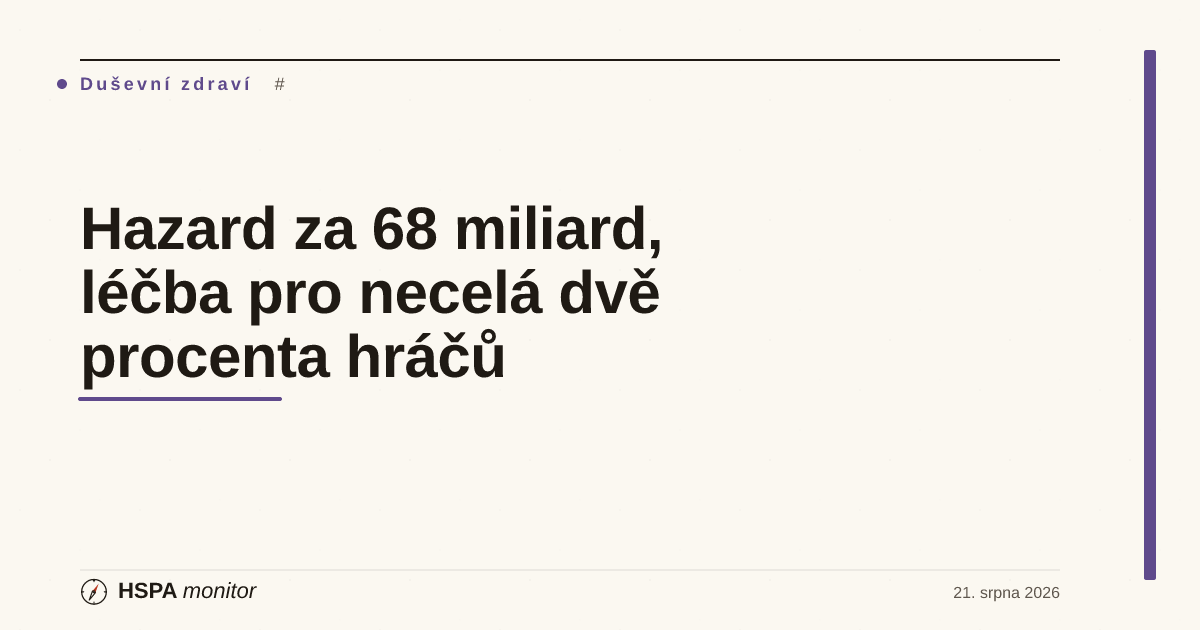
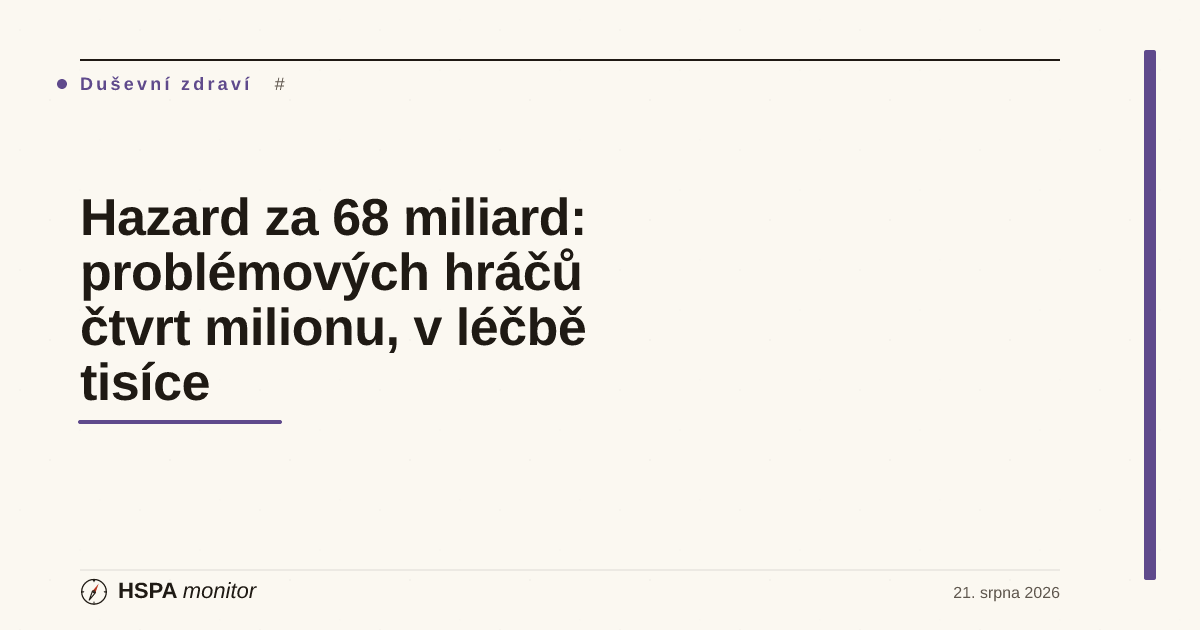
fix(clanky): hazard-vs-adiktologicke-sluzby — zapracování codex review PR #1016
P1: 'více než 4 tisíce' je dolní mez → pokrytí léčbou přeformulováno
jako 'nejméně 1,5–1,8 %'; titulek změněn (tvrzení 'necelá dvě procenta'
nemělo doloženou horní mez), cover přegenerován.
P2: 60 tis. sebezápisů (stav k 31. 12. 2025) nelze poměřovat s ročním
tokem 4 tis. v léčbě → poměr 15× a závěr o poptávce smazány; doplněno,
že sebezápis není totéž co zájem o léčbu.

Changed region(s): [[0.0617, 0.3016, 0.555, 0.6937]]

diff --git a/05_M1_Starter/clanek-hazard-vs-adiktologicke-sluzby.html b/05_M1_Starter/clanek-hazard-vs-adiktologicke-sluzby.html
@@ -15,16 +15,17 @@
       LEGISLATIVA: zápis do Rejstříku na vlastní žádost dle § 16a z. č. 186/2016 Sb., správcem systému je MF — ověřeno na portal.gov.cz (služba S12888, fetch 20. 8. 2026). VĚDOMĚ VYNECHÁNO: taxativní výčet kategorií zápisu ze zákona (hmotná nouze, insolvence…) — plné znění zákona dnes strojově nedostupné (zakonyprolidi 403, e-sbirka SPA bez textu); článek uvádí jen doložený kontrast 243/60 tis. VĚDOMĚ VYNECHÁNO: výnos daně z hazardních her (bez strojově ověřitelného zdroje k datu psaní).
       INDIKÁTORY (ověřeny v data/indicators.json 20. 8. 2026): hazardni_hrani_adolescenti 27,6 % (ESPAD 2024, benchmark 23, bad); vydaje_dusevni_zdravi_pct 4 % (2022, EU 7, bad); substitucni_lecba_pokryti 20,4 % (2023, EU 50, bad); alkohol_spotreba 10,6 l (2024, OECD 8,4, bad).
       INTERNÍ ODKAZY: clanek-protidrogova-dusevni-politika-mz-2026.html (publikován); drafty hazardni-hrani-mladistvych a substitucni-lecba-opioidy vědomě NELINKOVÁNY (nepublikované).
+      CODEX REVIEW PR #1016 (20. 8. 2026), 2 nálezy zapracovány: (P1) 'více než 4 tisíce' je jen dolní mez → pokrytí léčbou přeformulováno všude jako 'nejméně 1,5–1,8 %', titulek/og:title/h1 změněn z 'léčba pro necelá dvě procenta hráčů' (nedoložitelná horní mez) na 'problémových hráčů čtvrt milionu, v léčbě tisíce'; (P2) 60 tis. sebezápisů je stavová veličina (kumulativní k 31. 12. 2025), 4 tis. v léčbě roční tok → poměr 15× a závěr o 'poptávce převyšující kapacitu' SMAZÁN, nahrazen popisem bez směšování stock/flow; sebezápis ≠ zájem o léčbu explicitně uvedeno.
       FÁZE 5 (nezávislý audit, 20. 8. 2026): TZ znovu nezávisle fetchnuta s refutačním promptem; 7 audit-fix nálezů opraveno: (1) deck/perex/description 'jen 4 tisíce' → 'něco přes 4 tisíce' (TZ: 'více než 4 tisíce'); (2) citace Babiše NEJSOU v TZ souvislé (mezi nimi věta o akci KORUND) → rozděleny do dvou samostatných citací; totéž citace Vojtěcha → rozděleny; (3) přímá citace Protopopové odstraněna (dva fetche ji atribuovaly rozdílně — nejistá atribuce, ponechána jen role); (4) Lex Kratom přepsán na verbatim znění TZ ('návrh zákona označovaný jako Lex Kratom, který reaguje na poznatky získané při kontrolních akcích'; 'zpřísnění režimu pro některé syntetické drogy identifikované v obchodní síti') — původní 'zákon o psychomodulačních látkách' byl z paměti modelu, SMAZÁN; (5) věta 'hazard je do 18 let zakázaný' odstraněna (dnes bez strojově ověřitelného primárního zdroje, TZ ji neobsahuje); (6) tvrzení 'prohraná částka = příjmy provozovatelů' odstraněno (inference, TZ to explicitně neříká); (7) range counter 220–275 zbaven data-value (anti-pattern F — animace by zničila rozpětí). Povinnosti provozovatelů vůči RVO dodatečně OVĚŘENY z portal.gov.cz (od 20. 12. 2020, § 16–16c) a doplněny do textu. Odkazy ověřeny HTTP 200 (20. 8. 2026): mzd.gov.cz TZ, drogy-info.cz/publikace/vyrocni-zpravy, portal.gov.cz S12888, mf.gov.cz RVO rozcestník; interní cíle (4 indikátorové stránky, clanek-protidrogova-dusevni-politika-mz-2026.html) existují. AV počítadla bez anti-patternu (data-value: 68, 243, 415 — vše čistě numerické). Odvozené výpočty přepočteny: 1,5–1,8 % (4/275=1,45→1,5; 4/220=1,82); 183=243−60; 164≈68000/415; 15=60/4.
       Status: review-pending — publikaci řídí publikační fronta; published:false, scheduled_for 2026-08-21 (konec fronty + pravidlo nepublikovat stejným dnem, viz routing-2026-08-20.md)."
 -->
 <meta charset="UTF-8">
 <meta name="viewport" content="width=device-width, initial-scale=1.0">
-<title>Hazard za 68 miliard, léčba pro necelá dvě procenta hráčů · HSPA Monitor</title>
+<title>Hazard za 68 miliard: problémových hráčů čtvrt milionu, v léčbě tisíce · HSPA Monitor</title>
 <meta name="description" content="Češi v roce 2025 prohráli v hazardních hrách 68 miliard korun, o 7 % víc než rok předtím. Problémové hraní se týká 220 až 275 tisíc dospělých, v kontaktu s léčbou je ale jen něco přes 4 tisíce lidí ročně. Rada vlády schválila na adiktologické služby pro rok 2027 dotačních 415 milionů. Co říkají čísla z tiskové zprávy ministerstva — a co k nim dodávají indikátory dashboardu.">
 <meta name="robots" content="noindex, nofollow">
 <meta property="og:type" content="article">
-<meta property="og:title" content="Hazard za 68 miliard, léčba pro necelá dvě procenta hráčů">
+<meta property="og:title" content="Hazard za 68 miliard: problémových hráčů čtvrt milionu, v léčbě tisíce">
 <meta property="og:description" content="Prohraná částka v hazardu meziročně vzrostla o 7 % na 68 miliard. Problémových hráčů je podle odhadů čtvrt milionu, v kontaktu s léčbou přes 4 tisíce. Rejstřík vyloučených eviduje 243 tisíc osob. Na adiktologické služby půjde dotačních 415 milionů.">
 <meta property="og:locale" content="cs_CZ">
 <meta property="article:published_time" content="2026-08-21">
@@ -61,7 +62,7 @@
         <span class="article-tag">Duševní zdraví</span>
         <span class="article-tag article-tag-muted">Hazardní hraní · adiktologické služby · dotační program · Rejstřík vyloučených osob</span>
       </div>
-      <h1 class="article-title">Hazard za 68 miliard, léčba pro necelá dvě procenta hráčů</h1>
+      <h1 class="article-title">Hazard za 68 miliard: problémových hráčů čtvrt milionu, v léčbě tisíce</h1>
       <p class="article-deck">
         Češi v roce 2025 prohráli v hazardních hrách <strong>68 miliard korun</strong> — meziročně o 7 % víc a už 60 % příjmů provozovatelů pochází z online prostředí. Problémové hraní se podle odhadů týká <strong>220 až 275 tisíc dospělých</strong>, v kontaktu s léčbou a službami je ale jen <strong>něco přes čtyři tisíce lidí ročně</strong>. Rada vlády pro koordinaci politiky v oblasti závislostí 19. srpna schválila priority dotačního programu na rok 2027: na adiktologické služby je vyčleněno 415 milionů korun. Čísla z jednoho zasedání skládají obraz, který dashboard zná z jiných závislostí — vysoká nemocnost, nízké pokrytí péčí.
       </p>
@@ -122,10 +123,10 @@
         Online posun není jen technikálie trhu. Mění to, kdo je hazardu vystaven a jak nepřetržitě: u dospívajících dashboard sleduje indikátor z evropské školní studie ESPAD, podle kterého v posledním roce hrálo hazardní hry <a href="indikator-hazardni_hrani_adolescenti.html">27,6 % českých šestnáctiletých</a> — výrazně nad průměrem 37 zapojených evropských zemí (23 %) a se signálem <em>bad</em>.
       </p>
 
-      <h2>Čtvrt milionu problémových hráčů, čtyři tisíce v léčbě</h2>
+      <h2>Čtvrt milionu problémových hráčů, tisíce v léčbě</h2>
 
       <p>
-        Druhá dvojice čísel z téhož jednání popisuje zdravotní stranu věci. <strong>„Problémové hraní se podle odhadů týká 220 až 275 tisíc dospělých,"</strong> konstatuje zpráva — a hned dodává, že „v kontaktu s léčbou a službami jsou více než 4 tisíce osob ročně". Když obě čísla vydělíte, vyjde vám, že <strong>léčbou nebo službami projde ročně zhruba 1,5 až 1,8 procenta lidí, kterých se problémové hraní týká</strong> (dopočet redakce z údajů tiskové zprávy).
+        Druhá dvojice čísel z téhož jednání popisuje zdravotní stranu věci. <strong>„Problémové hraní se podle odhadů týká 220 až 275 tisíc dospělých,"</strong> konstatuje zpráva — a hned dodává, že „v kontaktu s léčbou a službami jsou více než 4 tisíce osob ročně". Zpráva uvádí jen dolní mez počtu léčených, přesné číslo ne — ale i tak lze spočítat, že <strong>léčbou nebo službami projde ročně nejméně zhruba 1,5 až 1,8 procenta lidí, kterých se problémové hraní týká</strong> (dopočet redakce z údajů tiskové zprávy: 4 000 děleno horní a dolní hranicí odhadu).
       </p>
 
       <p>
@@ -135,7 +136,7 @@
       <aside class="article-callout article-callout-caveat" aria-label="Metodická výhrada k odhadu">
         <p class="article-callout-h">220–275 tisíc je odhad, ne evidence</p>
         <p>
-          Počet problémových hráčů nikdo neregistruje — jde o <strong>odhad Národního monitorovacího střediska pro závislosti</strong> z populačních studií, proto je uveden jako rozpětí. Naproti tomu 4 tisíce osob v léčbě a 243 tisíc osob v Rejstříku vyloučených jsou evidenční čísla. Rozpětí také znamená, že dopočtené pokrytí léčbou (1,5–1,8 %) je orientační a počítá se spodní hodnotou formulace „více než 4 tisíce"; na řádovém závěru — léčbou nebo službami projde ročně zhruba jeden z padesáti až sedmdesáti problémových hráčů — se tím nic nemění.
+          Počet problémových hráčů nikdo neregistruje — jde o <strong>odhad Národního monitorovacího střediska pro závislosti</strong> z populačních studií, proto je uveden jako rozpětí. Naproti tomu 4 tisíce osob v léčbě a 243 tisíc osob v Rejstříku vyloučených jsou evidenční čísla. A protože „více než 4 tisíce" je dolní mez, je dolní mezí i dopočtené pokrytí léčbou (1,5–1,8 %) — skutečný podíl může být vyšší; tisková zpráva horní hranici neuvádí. Řádový kontrast mezi rozsahem problému a počtem lidí v péči, jak ho zpráva sama staví vedle sebe, tím zůstává.
         </p>
       </aside>
 
@@ -146,7 +147,7 @@
       </p>
 
       <p>
-        Ke konci roku 2025 rejstřík evidoval <strong>243 tisíc osob, z toho 60 tisíc na vlastní žádost</strong>. Zbylých zhruba 183 tisíc lidí (dopočet redakce) do něj stát zapsal z moci úřední. Šedesát tisíc dobrovolných sebezápisů je pozoruhodné číslo samo o sobě: zhruba patnáctkrát převyšuje roční počet lidí v kontaktu s léčbou (dopočet redakce). Jinými slovy — poptávka po „vypnutí" vlastního přístupu k hazardu výrazně přesahuje kapacitu, kterou systém nabízí pro řešení příčin.
+        Ke konci roku 2025 rejstřík evidoval <strong>243 tisíc osob, z toho 60 tisíc na vlastní žádost</strong>. Zbylých zhruba 183 tisíc lidí (dopočet redakce) do něj stát zapsal z moci úřední. Šedesát tisíc dobrovolných sebezápisů je pozoruhodné číslo samo o sobě — jde ovšem o kumulativní stav ke konci roku 2025, takže ho nelze přímo poměřovat s ročním počtem lidí v léčbě, a sebezápis do rejstříku není totéž co zájem o léčbu. Co z čísla vyčíst lze: desítky tisíc lidí sáhly po nejtvrdším ochranném nástroji, který jim systém nabízí, z vlastního rozhodnutí.
       </p>
 
       <h2>415 milionů na síť, kterou loni využilo 98 tisíc lidí</h2>
@@ -217,7 +218,7 @@
       </figure>
 
       <p>
-        Šedesát osm miliard je číslo, které se dobře pamatuje, ale samo o sobě politiku nedělá. Podstatnější je poměr, který kolem něj tisková zpráva bezděky vykreslila: čtvrt milionu lidí s problémem, čtyři tisíce v léčbě, šedesát tisíc dobrovolně vyloučených ze hry — a 415 milionů na síť služeb, která to celé má unést. <strong>Dashboard bude sledovat, jestli se ten poměr začne měnit.</strong>
+        Šedesát osm miliard je číslo, které se dobře pamatuje, ale samo o sobě politiku nedělá. Podstatnější je poměr, který kolem něj tisková zpráva bezděky vykreslila: čtvrt milionu lidí s problémem, přes čtyři tisíce ročně v léčbě, šedesát tisíc dobrovolně vyloučených ze hry — a 415 milionů na síť služeb, která to celé má unést. <strong>Dashboard bude sledovat, jestli se ten poměr začne měnit.</strong>
       </p>
 
     </div>
@@ -257,7 +258,7 @@
         </ul>
       </div>
       <p class="article-sources-disclaimer">
-        <strong>Pozn. k údajům:</strong> Všechna čísla o hazardu za rok 2025 a o dotačním programu pocházejí z tiskové zprávy MZ ČR z 19. 8. 2026, kterou redakce stáhla a ověřila 20. 8. 2026. Poslední úplná výroční Zpráva o hazardním hraní v ČR je za rok 2024 (ověřeno na drogy-info.cz 20. 8. 2026), hodnoty za rok 2025 proto článek uvádí výhradně s odkazem na tiskovou zprávu a bez dopočtů nad rámec označených. Rozpětí 220–275 tisíc problémových hráčů je odhad NMS, nikoli evidence. Dopočty redakce: pokrytí léčbou 1,5–1,8 % (4 000 / 220–275 tis.; spodní hodnota formulace „více než 4 tisíce"), zápisy z moci úřední ≈ 183 tisíc (243 − 60 tis.), poměr dobrovolných zápisů k léčbě ≈ 15× (60 tis. / 4 tis.) a poměr 164× (68 mld / 415 mil.) — poslední jmenovaný slouží jen jako měřítko, dotační program MZ není jediným zdrojem financování adiktologických služeb a prohraná částka není příjmem státu. Taxativní výčet zákonných důvodů zápisu z moci úřední do rejstříku článek záměrně neuvádí — plné znění zákona č. 186/2016 Sb. nebylo k datu psaní strojově ověřitelné; doloženo z portal.gov.cz (služba S12888, ověřeno 20. 8. 2026) je, že správcem systému je Ministerstvo financí, zápis na vlastní žádost upravuje § 16a s výmazem nejdříve po roce a provozovatelé od 20. 12. 2020 nesmějí zapsaným osobám zřídit či nechat používat uživatelské konto ani je vpustit do herního prostoru (§ 16 až 16c a související). Citace osob jsou převzaty doslovně z tiskové zprávy; věty spojované v textu spojkami mimo uvozovky na sebe v originále nemusejí bezprostředně navazovat (redakce to ověřila a značí předěly mimo citace). Hodnoty indikátorů dashboardu (ESPAD 2024, výdaje na duševní zdraví, substituční léčba, spotřeba alkoholu) pocházejí z data/indicators.json k 20. 8. 2026 a mají vlastní metodické karty.
+        <strong>Pozn. k údajům:</strong> Všechna čísla o hazardu za rok 2025 a o dotačním programu pocházejí z tiskové zprávy MZ ČR z 19. 8. 2026, kterou redakce stáhla a ověřila 20. 8. 2026. Poslední úplná výroční Zpráva o hazardním hraní v ČR je za rok 2024 (ověřeno na drogy-info.cz 20. 8. 2026), hodnoty za rok 2025 proto článek uvádí výhradně s odkazem na tiskovou zprávu a bez dopočtů nad rámec označených. Rozpětí 220–275 tisíc problémových hráčů je odhad NMS, nikoli evidence. Dopočty redakce: pokrytí léčbou nejméně 1,5–1,8 % (4 000 / 220–275 tis.; „více než 4 tisíce" je dolní mez, skutečný podíl může být vyšší), zápisy z moci úřední ≈ 183 tisíc (243 − 60 tis.) a poměr 164× (68 mld / 415 mil.) — poslední jmenovaný slouží jen jako měřítko, dotační program MZ není jediným zdrojem financování adiktologických služeb a prohraná částka není příjmem státu. Taxativní výčet zákonných důvodů zápisu z moci úřední do rejstříku článek záměrně neuvádí — plné znění zákona č. 186/2016 Sb. nebylo k datu psaní strojově ověřitelné; doloženo z portal.gov.cz (služba S12888, ověřeno 20. 8. 2026) je, že správcem systému je Ministerstvo financí, zápis na vlastní žádost upravuje § 16a s výmazem nejdříve po roce a provozovatelé od 20. 12. 2020 nesmějí zapsaným osobám zřídit či nechat používat uživatelské konto ani je vpustit do herního prostoru (§ 16 až 16c a související). Citace osob jsou převzaty doslovně z tiskové zprávy; věty spojované v textu spojkami mimo uvozovky na sebe v originále nemusejí bezprostředně navazovat (redakce to ověřila a značí předěly mimo citace). Hodnoty indikátorů dashboardu (ESPAD 2024, výdaje na duševní zdraví, substituční léčba, spotřeba alkoholu) pocházejí z data/indicators.json k 20. 8. 2026 a mají vlastní metodické karty.
       </p>
     </section>
 
